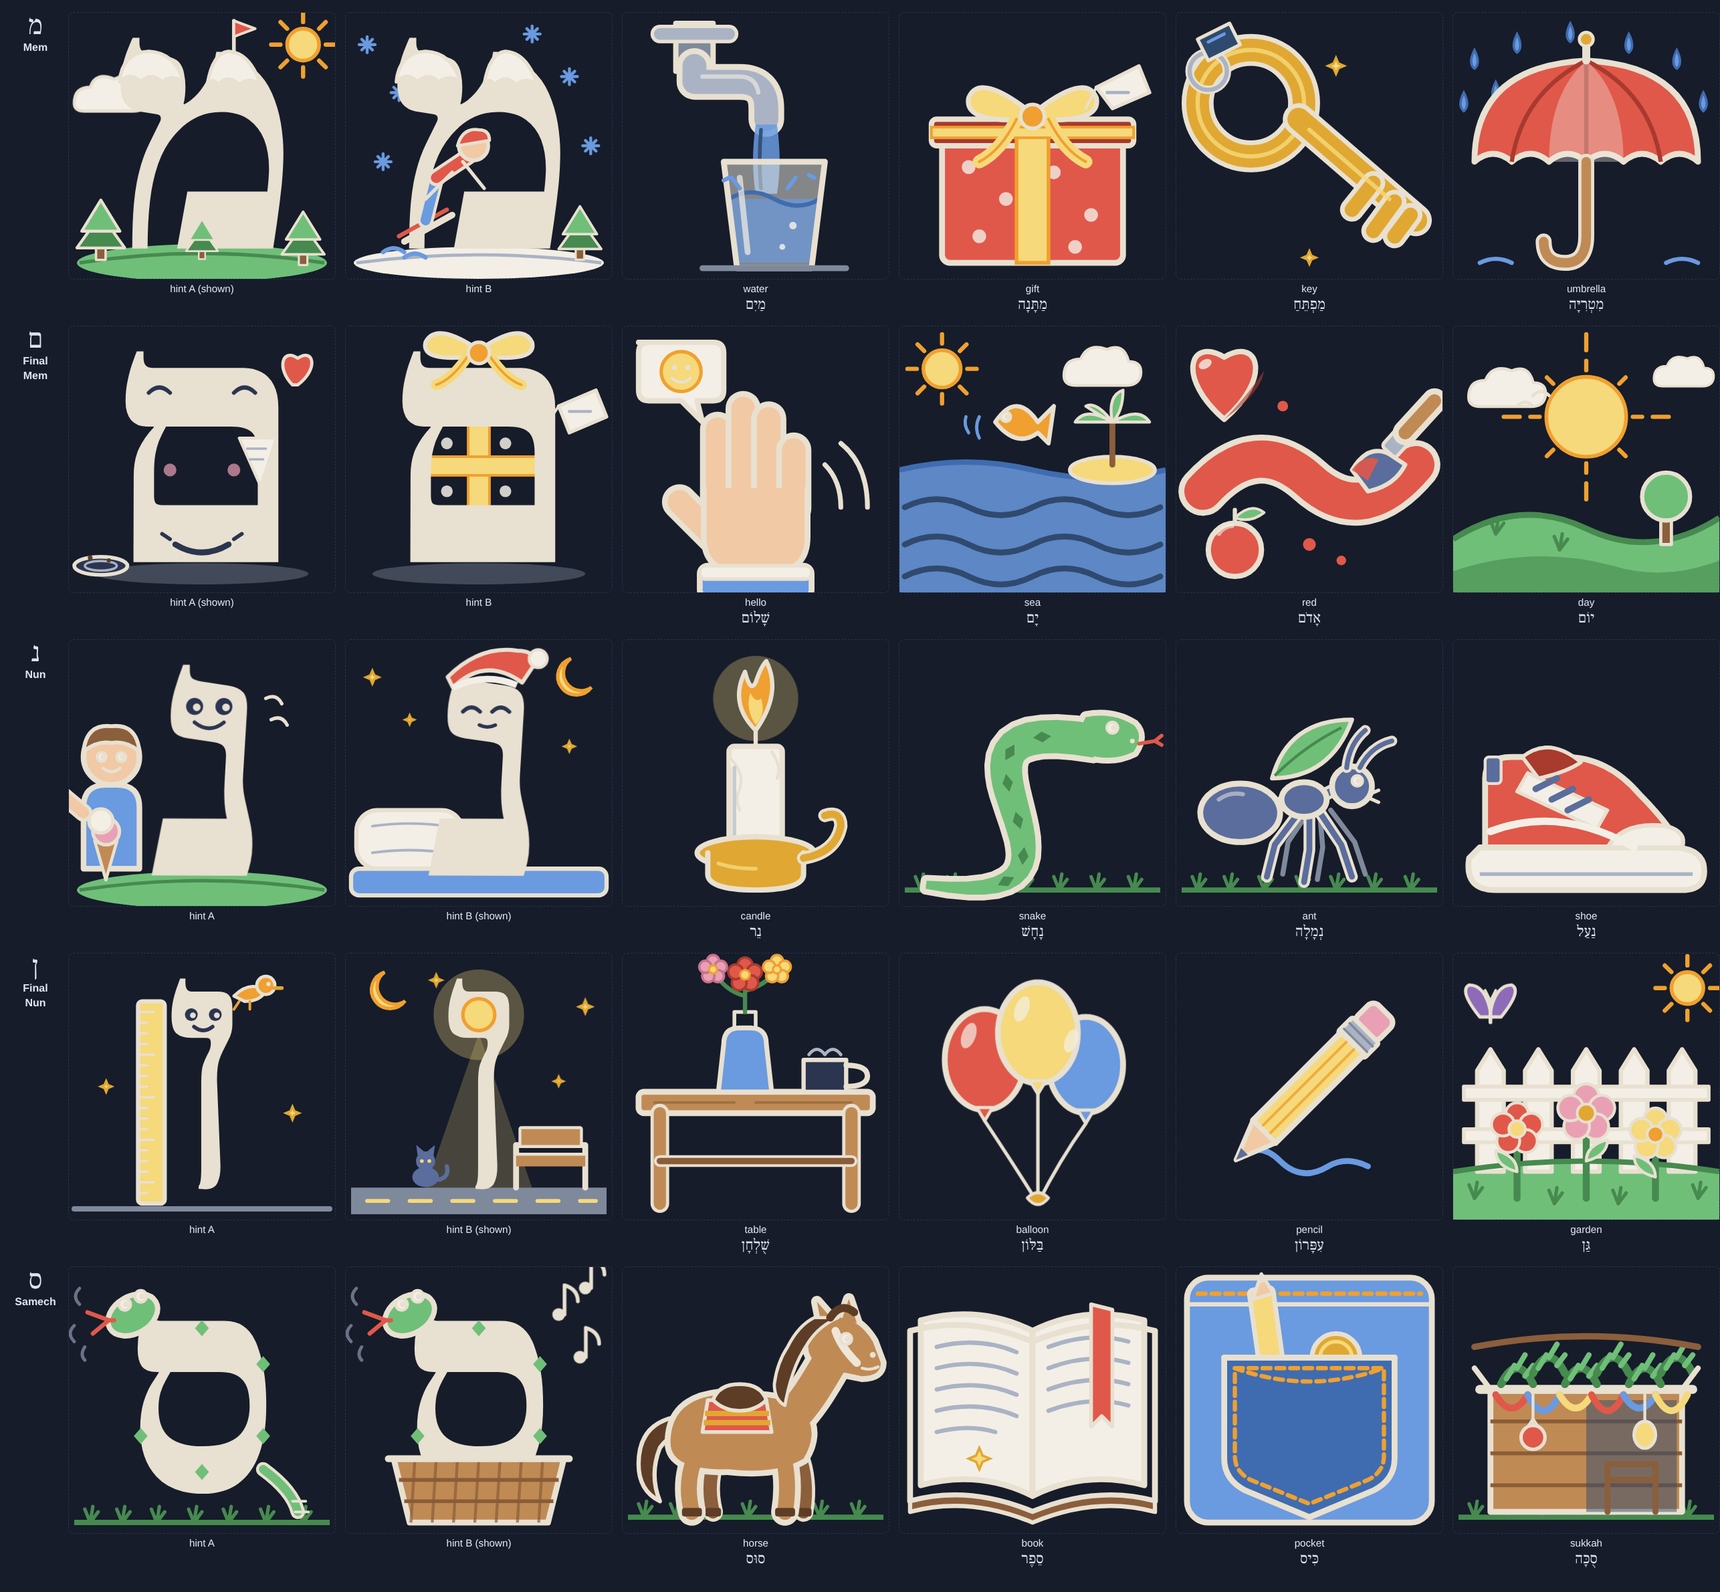
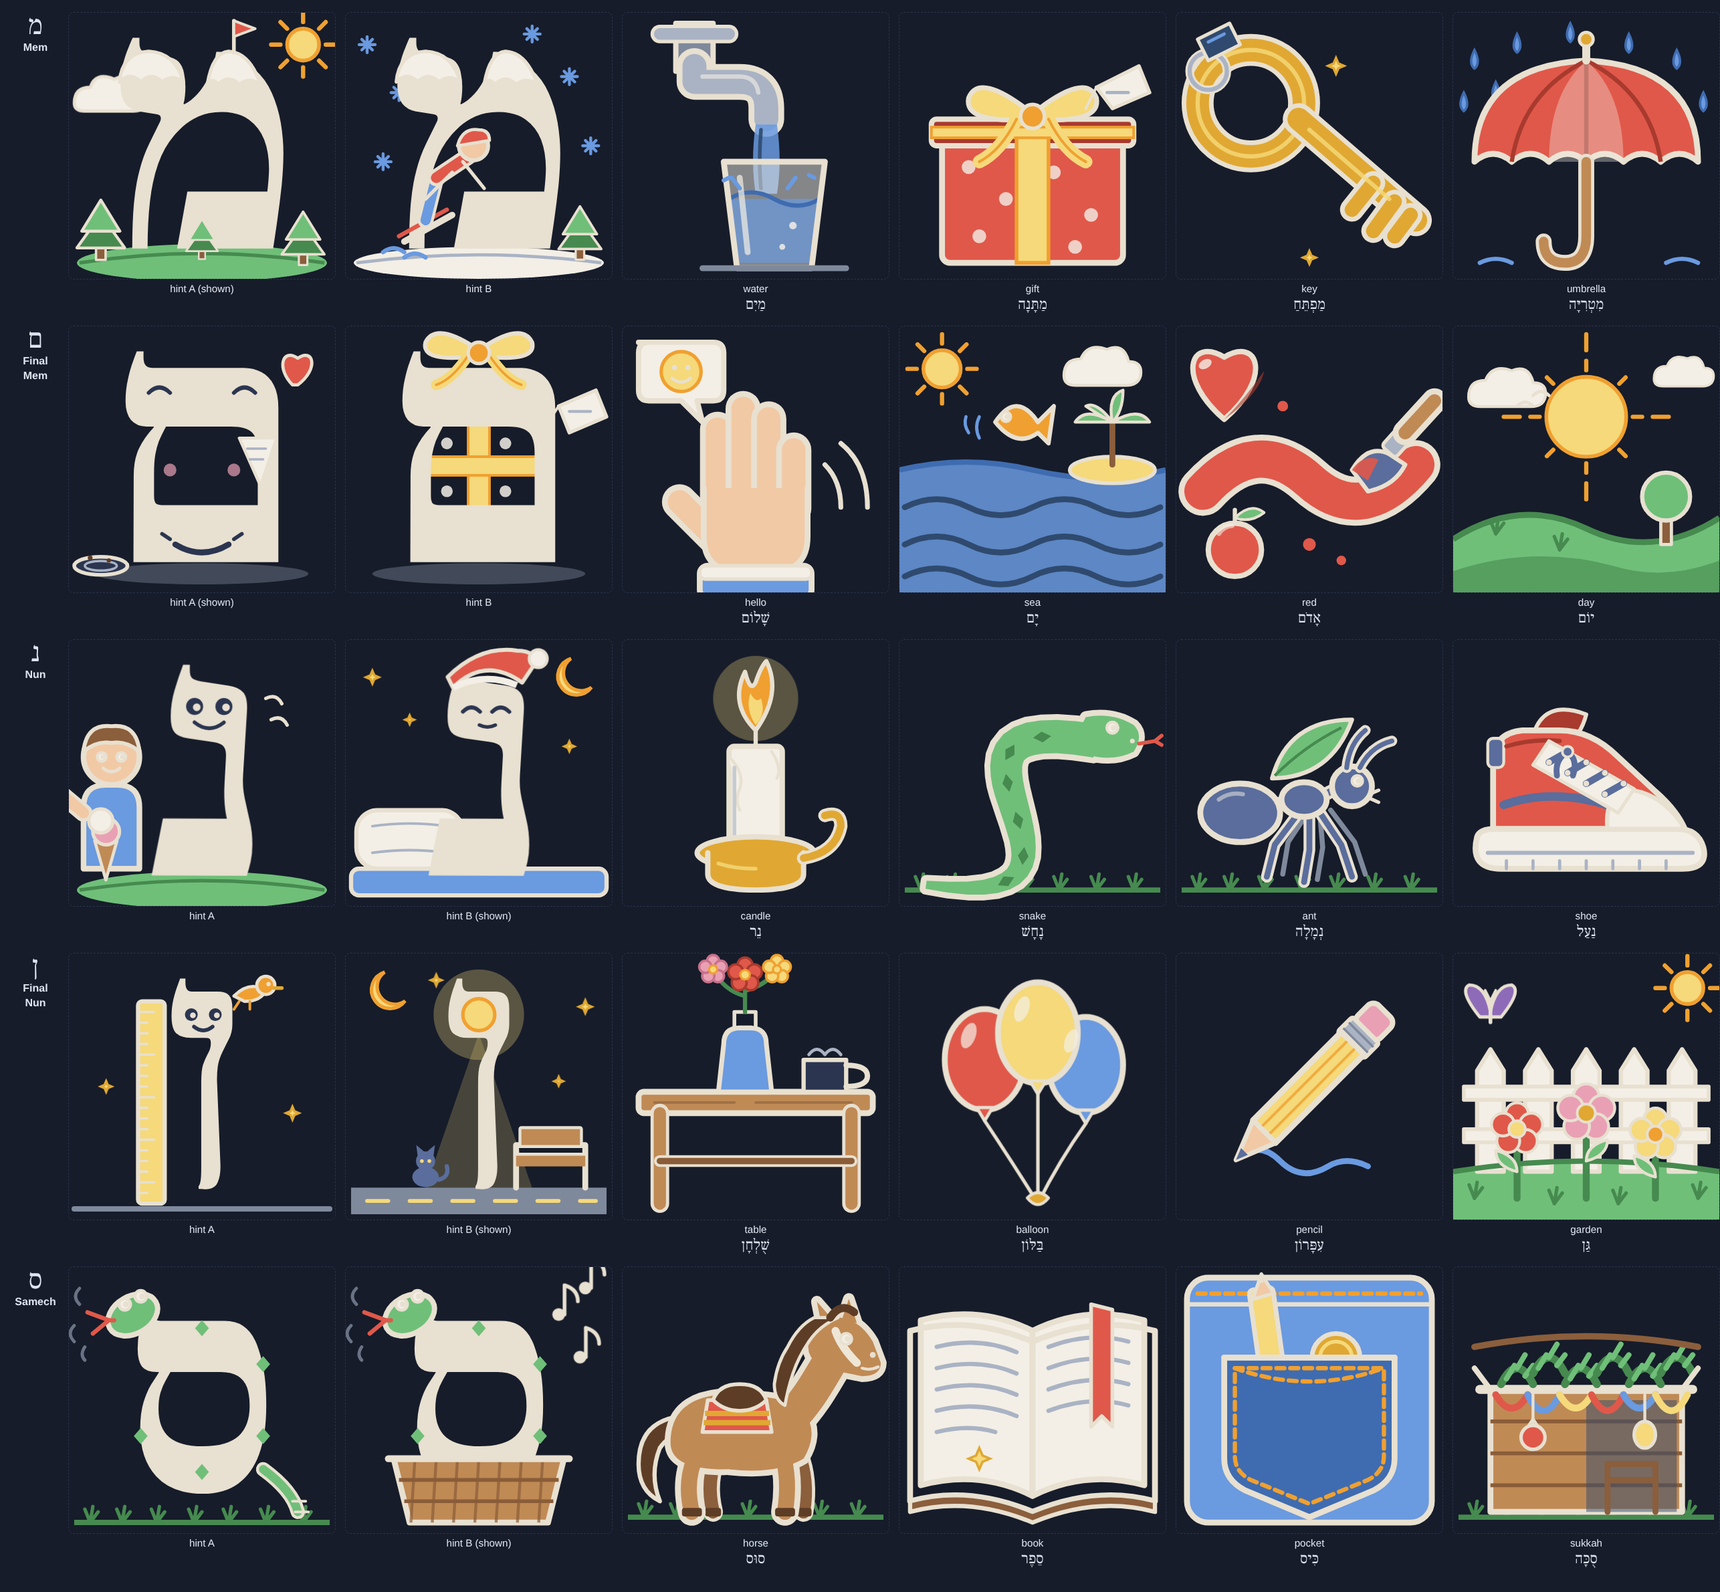
Letter Learner: the shoe (נַעַל) redrawn — a clean side-view sneaker
The nun card's shoe was a clumsy high-top: a tilted lace slab, a thick white swoosh, a blob of a toe. It is now a
sneaker in profile with a proper sole (midsole line, tread marks), a heel tab, a red upper with a navy side
stripe, a white toe cap, a lace strip with eyelets and four laces tied in a knot with tails, and a tongue
behind the collar. Batch 4 and cursive batch 2 review sheets re-rendered; sw.js v1010.

Claude-Session: https://claude.ai/code/session_01NPPSf5TVJhUZEeDx1ewip1

Changed region(s): [[0.8398, 0.4351, 0.9953, 0.5594]]

diff --git a/letter_learner.html b/letter_learner.html
@@ -1006,7 +1006,7 @@ const LETTER_DATA = [
       { he: 'נֵר', tr: 'ner', en: 'candle', svg: `<g class="ll-anim ll-anim-blink"><circle cx="50" cy="22" r="16" fill="var(--ll-yellow)" opacity="0.3"/></g><path d="M50 34Q40 24 46 12Q48 20 50 16Q52 10 54 8Q60 20 50 34Z" fill="var(--ll-orange)" stroke="var(--ll-line)" stroke-width="1.6" stroke-linecap="round" stroke-linejoin="round"/><path d="M50 32Q46 26 48 20Q50 24 52 22Q54 28 50 32Z" fill="var(--ll-yellow)"/><path d="M50 34V40" fill="none" stroke="var(--ll-line)" stroke-width="1.6" stroke-linecap="round" stroke-linejoin="round"/><rect x="40" y="40" width="20" height="40" rx="2" fill="var(--ll-white)" stroke="var(--ll-line)" stroke-width="2" stroke-linecap="round" stroke-linejoin="round"/><path d="M40 44Q46 50 44 56Q42 60 44 64" fill="var(--ll-white)" stroke="var(--ll-line)" stroke-width="1.1" stroke-linecap="round" stroke-linejoin="round"/><path d="M56 42Q60 48 58 52" fill="var(--ll-white)" stroke="var(--ll-line)" stroke-width="1.1" stroke-linecap="round" stroke-linejoin="round"/><path d="M42 48V74" fill="none" stroke="var(--ll-gray)" stroke-width="1.4" opacity="0.6" stroke-linecap="round"/><ellipse cx="50" cy="80" rx="22" ry="6" fill="var(--ll-gold)" stroke="var(--ll-line)" stroke-width="2" stroke-linecap="round" stroke-linejoin="round"/><path d="M32 80V88Q32 94 50 94Q68 94 68 88V80" fill="var(--ll-gold)" stroke="var(--ll-line)" stroke-width="2" stroke-linecap="round" stroke-linejoin="round"/><path d="M68 82Q80 80 82 70Q82 64 76 66" fill="none" stroke="var(--ll-line)" stroke-width="5" stroke-linecap="round" stroke-linejoin="round"/><path d="M68 82Q80 80 82 70Q82 64 76 66" fill="none" stroke="var(--ll-gold)" stroke-width="2.8" stroke-linecap="round"/><path d="M36 84q6 2 14 2" fill="none" stroke="var(--ll-gold-lt)" stroke-width="1.4" opacity="0.8" stroke-linecap="round"/>` },
       { he: 'נָחָשׁ', tr: 'nachash', en: 'snake', svg: `<path d="M2 94H98" fill="none" stroke="var(--ll-grass-dk)" stroke-width="2"/><path d="M8 94l-2 -5M8 94l1 -6M8 94l3 -4" fill="none" stroke="var(--ll-grass-dk)" stroke-width="1.3" stroke-linecap="round"/><path d="M20 94l-2 -5M20 94l1 -6M20 94l3 -4" fill="none" stroke="var(--ll-grass-dk)" stroke-width="1.3" stroke-linecap="round"/><path d="M33 94l-2 -5M33 94l1 -6M33 94l3 -4" fill="none" stroke="var(--ll-grass-dk)" stroke-width="1.3" stroke-linecap="round"/><path d="M47 94l-2 -5M47 94l1 -6M47 94l3 -4" fill="none" stroke="var(--ll-grass-dk)" stroke-width="1.3" stroke-linecap="round"/><path d="M60 94l-2 -5M60 94l1 -6M60 94l3 -4" fill="none" stroke="var(--ll-grass-dk)" stroke-width="1.3" stroke-linecap="round"/><path d="M74 94l-2 -5M74 94l1 -6M74 94l3 -4" fill="none" stroke="var(--ll-grass-dk)" stroke-width="1.3" stroke-linecap="round"/><path d="M88 94l-2 -5M88 94l1 -6M88 94l3 -4" fill="none" stroke="var(--ll-grass-dk)" stroke-width="1.3" stroke-linecap="round"/><path d="M9.8 93.5L18.3 95.0L25.7 95.7L31.9 95.7L37.1 95.1L41.6 93.7L45.2 91.7L48.1 88.8L50.0 85.4L51.0 81.7L51.2 77.9L51.0 74.0L50.4 70.2L49.6 66.4L48.7 62.7L47.8 59.1L47.0 55.7L46.4 52.6L46.1 49.9L46.1 47.7L46.4 46.2L46.8 45.3L47.4 44.7L48.5 44.0L50.7 43.3L54.1 42.7L59.0 42.6L65.2 43.1L72.9 44.2L75.1 31.8L66.6 30.6L59.3 30.1L53.0 30.3L47.6 31.1L43.0 32.8L39.0 35.5L36.2 39.1L34.6 43.1L34.1 47.2L34.3 51.1L34.9 54.9L35.9 58.6L37.1 62.2L38.3 65.8L39.5 69.3L40.5 72.6L41.4 75.6L41.9 78.4L42.1 80.8L41.9 82.8L41.4 84.5L40.4 86.1L38.5 87.6L35.5 89.1L31.3 90.2L25.6 90.8L18.7 90.9L10.2 90.5Z" fill="var(--ll-line)" stroke="var(--ll-line)" stroke-width="4.4" stroke-linejoin="round"/><path d="M70 29Q80 27 88 32Q92 36 88 42Q80 46 70 43Q66 36 70 29Z" fill="var(--ll-line)" stroke="var(--ll-line)" stroke-width="4.4" stroke-linejoin="round"/><path d="M9.8 93.5L18.3 95.0L25.7 95.7L31.9 95.7L37.1 95.1L41.6 93.7L45.2 91.7L48.1 88.8L50.0 85.4L51.0 81.7L51.2 77.9L51.0 74.0L50.4 70.2L49.6 66.4L48.7 62.7L47.8 59.1L47.0 55.7L46.4 52.6L46.1 49.9L46.1 47.7L46.4 46.2L46.8 45.3L47.4 44.7L48.5 44.0L50.7 43.3L54.1 42.7L59.0 42.6L65.2 43.1L72.9 44.2L75.1 31.8L66.6 30.6L59.3 30.1L53.0 30.3L47.6 31.1L43.0 32.8L39.0 35.5L36.2 39.1L34.6 43.1L34.1 47.2L34.3 51.1L34.9 54.9L35.9 58.6L37.1 62.2L38.3 65.8L39.5 69.3L40.5 72.6L41.4 75.6L41.9 78.4L42.1 80.8L41.9 82.8L41.4 84.5L40.4 86.1L38.5 87.6L35.5 89.1L31.3 90.2L25.6 90.8L18.7 90.9L10.2 90.5Z" fill="var(--ll-green)"/><path d="M70 29Q80 27 88 32Q92 36 88 42Q80 46 70 43Q66 36 70 29Z" fill="var(--ll-green)"/><path d="M43.1 89.2L40.9 92.5L37.0 92.2L39.1 88.9Z" fill="var(--ll-green-dk)"/><path d="M46.9 77.8L48.5 81.4L46.2 84.6L44.5 81.0Z" fill="var(--ll-green-dk)"/><path d="M43.6 64.6L46.5 67.3L45.5 71.1L42.6 68.4Z" fill="var(--ll-green-dk)"/><path d="M40.0 50.4L42.6 53.4L41.3 57.1L38.7 54.1Z" fill="var(--ll-green-dk)"/><path d="M43.2 39.3L43.2 43.2L39.8 45.2L39.8 41.2Z" fill="var(--ll-green-dk)"/><path d="M57.0 36.2L53.8 38.5L50.2 36.8L53.4 34.5Z" fill="var(--ll-green-dk)"/><path d="M41.0 86.8L42.3 85.0L42.9 83.1L43.2 80.9L43.1 78.3L42.6 75.4L41.8 72.3L40.7 68.9L39.6 65.4L38.4 61.8L37.3 58.2L36.4 54.6L35.7 50.9L35.6 47.2L36.1 43.5L37.5 39.9L40.1 36.7L43.6 34.2" fill="none" stroke="var(--ll-grass)" stroke-width="1.6" opacity="0.8" stroke-linecap="round"/><circle cx="80" cy="33" r="2.1" fill="var(--ll-white)" stroke="var(--ll-line)" stroke-width="1.1" stroke-linecap="round" stroke-linejoin="round"/><circle cx="80.42" cy="33" r="1.05" fill="var(--ll-line)"/><circle cx="87.5" cy="38" r="0.9" fill="var(--ll-line)"/><path d="M90 39l6 -1M96 38l2.5 -2M96 38l2.5 1.5" fill="none" stroke="var(--ll-red)" stroke-width="1.4" stroke-linecap="round"/>` },
       { he: 'נְמָלָה', tr: 'nemalah', en: 'ant', svg: `<path d="M2 94H98" fill="none" stroke="var(--ll-grass-dk)" stroke-width="2"/><path d="M8 94l-2 -5M8 94l1 -6M8 94l3 -4" fill="none" stroke="var(--ll-grass-dk)" stroke-width="1.3" stroke-linecap="round"/><path d="M20 94l-2 -5M20 94l1 -6M20 94l3 -4" fill="none" stroke="var(--ll-grass-dk)" stroke-width="1.3" stroke-linecap="round"/><path d="M33 94l-2 -5M33 94l1 -6M33 94l3 -4" fill="none" stroke="var(--ll-grass-dk)" stroke-width="1.3" stroke-linecap="round"/><path d="M47 94l-2 -5M47 94l1 -6M47 94l3 -4" fill="none" stroke="var(--ll-grass-dk)" stroke-width="1.3" stroke-linecap="round"/><path d="M60 94l-2 -5M60 94l1 -6M60 94l3 -4" fill="none" stroke="var(--ll-grass-dk)" stroke-width="1.3" stroke-linecap="round"/><path d="M74 94l-2 -5M74 94l1 -6M74 94l3 -4" fill="none" stroke="var(--ll-grass-dk)" stroke-width="1.3" stroke-linecap="round"/><path d="M88 94l-2 -5M88 94l1 -6M88 94l3 -4" fill="none" stroke="var(--ll-grass-dk)" stroke-width="1.3" stroke-linecap="round"/><path d="M36 52Q42 30 66 30Q58 52 36 52Z" fill="var(--ll-green)" stroke="var(--ll-line)" stroke-width="1.6" stroke-linecap="round" stroke-linejoin="round"/><path d="M37 51Q48 40 62 33" fill="none" stroke="var(--ll-green-dk)" stroke-width="1.1"/><path d="M50 64L42 76L40 88M54 66L55 78L53 90M58 64L67 76L71 88" fill="none" stroke="var(--ll-gray-dk)" stroke-width="1.9" stroke-linecap="round" stroke-linejoin="round"/><path d="M46 65L37 77L34 89M50 67L50 79L48 91M54 65L62 77L66 89" fill="none" stroke="var(--ll-line)" stroke-width="4.4" stroke-linecap="round" stroke-linejoin="round"/><path d="M46 65L37 77L34 89M50 67L50 79L48 91M54 65L62 77L66 89" fill="none" stroke="var(--ll-navy)" stroke-width="2.2" stroke-linecap="round" stroke-linejoin="round"/><path d="M38 62L42 60M56 58L60 56" fill="none" stroke="var(--ll-line)" stroke-width="5" stroke-linecap="round" stroke-linejoin="round"/><path d="M38 62L42 60M56 58L60 56" fill="none" stroke="var(--ll-navy)" stroke-width="2.6" stroke-linecap="round"/><ellipse cx="24" cy="65" rx="15" ry="11" fill="var(--ll-navy)" stroke="var(--ll-line)" stroke-width="2.2" stroke-linecap="round" stroke-linejoin="round"/><ellipse cx="48" cy="60" rx="8.5" ry="6.5" fill="var(--ll-navy)" stroke="var(--ll-line)" stroke-width="2.2" stroke-linecap="round" stroke-linejoin="round"/><circle cx="66" cy="55" r="7.5" fill="var(--ll-navy)" stroke="var(--ll-line)" stroke-width="2.2" stroke-linecap="round" stroke-linejoin="round"/><path d="M69 48Q73 40 81 38M64 48Q65 39 71 34" fill="none" stroke="var(--ll-line)" stroke-width="4" stroke-linecap="round" stroke-linejoin="round"/><path d="M69 48Q73 40 81 38M64 48Q65 39 71 34" fill="none" stroke="var(--ll-navy)" stroke-width="1.8" stroke-linecap="round"/><path d="M16 60q4 -3 9 -2" fill="none" stroke="var(--ll-white)" stroke-width="1.6" opacity="0.5" stroke-linecap="round"/><circle cx="68" cy="53" r="2" fill="var(--ll-white)" stroke="var(--ll-line)" stroke-width="1.1" stroke-linecap="round" stroke-linejoin="round"/><circle cx="68.4" cy="53" r="1" fill="var(--ll-line)"/><path d="M72.5 58l3.5 -1.5M72.5 59.5l3.5 1.5" fill="none" stroke="var(--ll-line)" stroke-width="1.3" stroke-linecap="round" stroke-linejoin="round"/>` },
-      { he: 'נַעַל', tr: "na'al", en: 'shoe', svg: `<path d="M6 82Q4 94 16 94H86Q96 94 94 84Q92 78 82 78H10Z" fill="var(--ll-white)" stroke="var(--ll-line)" stroke-width="2.2" stroke-linecap="round" stroke-linejoin="round"/><path d="M10 88H90" fill="none" stroke="var(--ll-gray)" stroke-width="1.4"/><path d="M12 78V52Q12 44 22 44L42 44Q58 44 70 58Q80 68 86 78Z" fill="var(--ll-red)" stroke="var(--ll-line)" stroke-width="2.2" stroke-linecap="round" stroke-linejoin="round"/><path d="M26 44Q36 36 48 46Q42 50 32 52Z" fill="var(--ll-red-dk)" stroke="var(--ll-line)" stroke-width="1.4" stroke-linecap="round" stroke-linejoin="round"/><path d="M58 78Q64 68 80 70Q88 72 86 78Z" fill="var(--ll-white)" stroke="var(--ll-line)" stroke-width="1.6" stroke-linecap="round" stroke-linejoin="round"/><path d="M28 50L58 64L54 71L24 57Z" fill="var(--ll-white)" stroke="var(--ll-line)" stroke-width="1.3" stroke-linecap="round" stroke-linejoin="round"/><path d="M31 56L39 52M37 60L45 56M43 64L51 60" fill="none" stroke="var(--ll-navy)" stroke-width="2.4" stroke-linecap="round"/><path d="M14 72Q40 62 68 78" fill="none" stroke="var(--ll-white)" stroke-width="2.8" stroke-linecap="round"/><rect x="12" y="44" width="6" height="10" rx="1.5" fill="var(--ll-navy)" stroke="var(--ll-line)" stroke-width="1.1" stroke-linecap="round" stroke-linejoin="round"/>` } ] },
+      { he: 'נַעַל', tr: "na'al", en: 'shoe', svg: `<path d="M9 74Q6 86 18 86H86Q96 86 94 78Q92 71 84 71H16Q10 71 9 74Z" fill="var(--ll-white)" stroke="var(--ll-line)" stroke-linecap="round" stroke-linejoin="round" stroke-width="2.2"/><path d="M13 80H90" fill="none" stroke="var(--ll-gray)" stroke-width="1.5" stroke-linecap="round"/><path d="M20 86v-3M30 86v-3M40 86v-3M50 86v-3M60 86v-3M70 86v-3M80 86v-3" fill="none" stroke="var(--ll-gray)" stroke-width="1.2" stroke-linecap="round"/><path d="M30 36Q34 22 50 28Q48 36 42 40Z" fill="var(--ll-red-dk)" stroke="var(--ll-line)" stroke-linecap="round" stroke-linejoin="round" stroke-width="1.5"/><path d="M15 71V46Q15 35 26 34H40Q52 34 62 44L76 57Q84 64 87 71Z" fill="var(--ll-red)" stroke="var(--ll-line)" stroke-linecap="round" stroke-linejoin="round" stroke-width="2.2"/><rect x="13" y="37" width="6" height="11" rx="2" fill="var(--ll-navy)" stroke="var(--ll-line)" stroke-linecap="round" stroke-linejoin="round" stroke-width="1.1"/><path d="M20 40Q30 37 40 38" fill="none" stroke="var(--ll-red-dk)" stroke-width="1.6" stroke-linecap="round"/><path d="M19 62Q42 54 68 66" fill="none" stroke="var(--ll-navy)" stroke-width="3.2" stroke-linecap="round"/><path d="M62 56Q78 56 87 71H58Q57 62 62 56Z" fill="var(--ll-white)" stroke="var(--ll-line)" stroke-linecap="round" stroke-linejoin="round" stroke-width="1.6"/><path d="M36 38L68 56L62 65L30 47Z" fill="var(--ll-white)" stroke="var(--ll-line)" stroke-linecap="round" stroke-linejoin="round" stroke-width="1.3"/><path d="M36 46L43 42M43 50L50 46M50 54L57 50M57 58L64 54" fill="none" stroke="var(--ll-navy)" stroke-width="2.6" stroke-linecap="round"/><circle cx="36" cy="46" r="1.1" fill="var(--ll-line)"/><circle cx="43" cy="42" r="1.1" fill="var(--ll-line)"/><circle cx="43" cy="50" r="1.1" fill="var(--ll-line)"/><circle cx="50" cy="46" r="1.1" fill="var(--ll-line)"/><circle cx="50" cy="54" r="1.1" fill="var(--ll-line)"/><circle cx="57" cy="50" r="1.1" fill="var(--ll-line)"/><circle cx="57" cy="58" r="1.1" fill="var(--ll-line)"/><circle cx="64" cy="54" r="1.1" fill="var(--ll-line)"/><path d="M43 42q-5 3-4 9M43 42q4 3 2 9" fill="none" stroke="var(--ll-navy)" stroke-width="2.2" stroke-linecap="round"/><circle cx="43" cy="42" r="2" fill="var(--ll-navy)" stroke="var(--ll-line)" stroke-linecap="round" stroke-linejoin="round" stroke-width="1"/>` } ] },
   { id: 'nun_sofit', glyph: 'ן', name: 'Final Nun', sound: 'n', consonant: 'n', final: 'nun',
     hint: { caption: 'FINAL NUN is a long, straight line — it stands at the END of a word', show: 1, variants: [
       { label: 'A', svg: `<path d="M2 96H98" fill="none" stroke="var(--ll-gray-dk)" stroke-width="2" stroke-linecap="round"/><rect x="26" y="18" width="10" height="76" rx="1.5" fill="var(--ll-yellow)" stroke="var(--ll-line)" stroke-width="1.6" stroke-linecap="round" stroke-linejoin="round"/><path d="M26 22h6" fill="none" stroke="var(--ll-line)" stroke-width="0.9" stroke-linecap="round" stroke-linejoin="round"/><path d="M26 26h3.5" fill="none" stroke="var(--ll-line)" stroke-width="0.9" stroke-linecap="round" stroke-linejoin="round"/><path d="M26 30h3.5" fill="none" stroke="var(--ll-line)" stroke-width="0.9" stroke-linecap="round" stroke-linejoin="round"/><path d="M26 34h3.5" fill="none" stroke="var(--ll-line)" stroke-width="0.9" stroke-linecap="round" stroke-linejoin="round"/><path d="M26 38h6" fill="none" stroke="var(--ll-line)" stroke-width="0.9" stroke-linecap="round" stroke-linejoin="round"/><path d="M26 42h3.5" fill="none" stroke="var(--ll-line)" stroke-width="0.9" stroke-linecap="round" stroke-linejoin="round"/><path d="M26 46h3.5" fill="none" stroke="var(--ll-line)" stroke-width="0.9" stroke-linecap="round" stroke-linejoin="round"/><path d="M26 50h3.5" fill="none" stroke="var(--ll-line)" stroke-width="0.9" stroke-linecap="round" stroke-linejoin="round"/><path d="M26 54h6" fill="none" stroke="var(--ll-line)" stroke-width="0.9" stroke-linecap="round" stroke-linejoin="round"/><path d="M26 58h3.5" fill="none" stroke="var(--ll-line)" stroke-width="0.9" stroke-linecap="round" stroke-linejoin="round"/><path d="M26 62h3.5" fill="none" stroke="var(--ll-line)" stroke-width="0.9" stroke-linecap="round" stroke-linejoin="round"/><path d="M26 66h3.5" fill="none" stroke="var(--ll-line)" stroke-width="0.9" stroke-linecap="round" stroke-linejoin="round"/><path d="M26 70h6" fill="none" stroke="var(--ll-line)" stroke-width="0.9" stroke-linecap="round" stroke-linejoin="round"/><path d="M26 74h3.5" fill="none" stroke="var(--ll-line)" stroke-width="0.9" stroke-linecap="round" stroke-linejoin="round"/><path d="M26 78h3.5" fill="none" stroke="var(--ll-line)" stroke-width="0.9" stroke-linecap="round" stroke-linejoin="round"/><path d="M26 82h3.5" fill="none" stroke="var(--ll-line)" stroke-width="0.9" stroke-linecap="round" stroke-linejoin="round"/><path d="M26 86h6" fill="none" stroke="var(--ll-line)" stroke-width="0.9" stroke-linecap="round" stroke-linejoin="round"/><path d="M26 90h3.5" fill="none" stroke="var(--ll-line)" stroke-width="0.9" stroke-linecap="round" stroke-linejoin="round"/><g transform="translate(5 4) scale(0.9)"><path d="M51.3 94Q50.6 94 49.9 93.9Q49.2 93.9 48.6 93.8V92.8Q49.2 92 49.4 90.6Q49.7 89.2 49.7 84.8V49.5Q49.7 44.6 50.4 42.2Q51.2 39.8 52.3 37.7Q52.9 36.7 53.3 35.6Q53.7 34.6 53.7 33.1Q53.7 31.7 53.2 31.2Q52.7 30.8 51 30.8H45.6Q41.4 30.8 39.3 28.9Q37.3 27 37.3 21.7Q37.3 17.9 38.1 14.6Q38.9 11.3 39.8 9Q40.6 6.7 40.9 6H43.1V7.7Q43.1 9.7 43.8 10.6Q44.5 11.5 46.5 11.5H56.5Q59.7 11.5 61.2 12.9Q62.7 14.4 62.7 18.5V25.2Q62.7 28.6 61.1 31.6Q59.6 34.6 58.5 36.8Q57 39.9 56.6 42.8Q56.2 45.8 56.3 49.2L57.7 83.4Q57.9 88.1 56.6 91Q55.4 94 51.3 94Z" fill="var(--ll-line)"/></g><circle cx="46" cy="23" r="2.4" fill="var(--ll-paper)"/><circle cx="55" cy="23" r="2.4" fill="var(--ll-paper)"/><circle cx="46.6" cy="23.24" r="1.08" fill="var(--ll-line)"/><circle cx="55.6" cy="23.24" r="1.08" fill="var(--ll-line)"/><path d="M47 27.5Q50.5 30.3 54 27.5" fill="none" stroke="var(--ll-paper)" stroke-width="1.4" stroke-linecap="round"/><path d="M62 16Q68 10 74 14Q72 18 66 18Z" fill="var(--ll-orange)" stroke="var(--ll-line)" stroke-width="1.2" stroke-linecap="round" stroke-linejoin="round"/><circle cx="74" cy="12" r="3.4" fill="var(--ll-orange)" stroke="var(--ll-line)" stroke-width="1.2" stroke-linecap="round" stroke-linejoin="round"/><circle cx="75" cy="11.5" r="0.8" fill="var(--ll-line)"/><path d="M77 13l3 0" fill="none" stroke="var(--ll-gold)" stroke-width="1.4" stroke-linecap="round"/><path d="M64 18L62 21M68 18L68 21" fill="none" stroke="var(--ll-orange)" stroke-width="1" stroke-linecap="round"/><path d="M84 57.6L84.72 59.28L86.4 60L84.72 60.72L84 62.4L83.28 60.72L81.6 60L83.28 59.28Z" fill="var(--ll-gold-lt)" stroke="var(--ll-gold)" stroke-width="0.9"/><path d="M14 48L14.6 49.4L16 50L14.6 50.6L14 52L13.4 50.6L12 50L13.4 49.4Z" fill="var(--ll-gold-lt)" stroke="var(--ll-gold)" stroke-width="0.9"/>` },

diff --git a/sw.js b/sw.js
@@ -1,5 +1,5 @@
 /* IvritSuite service worker — bump VERSION to invalidate the cache on deploy. */
-const VERSION = 'v1009';
+const VERSION = 'v1010';
 const CACHE = 'ivritsuite-' + VERSION;
 // Version-independent cache for the big data/ corpora (dictionary words / emoji / parshiyot /
 // pockettorah). Kept OUT of the version-scoped CACHE so a routine VERSION bump no longer evicts
